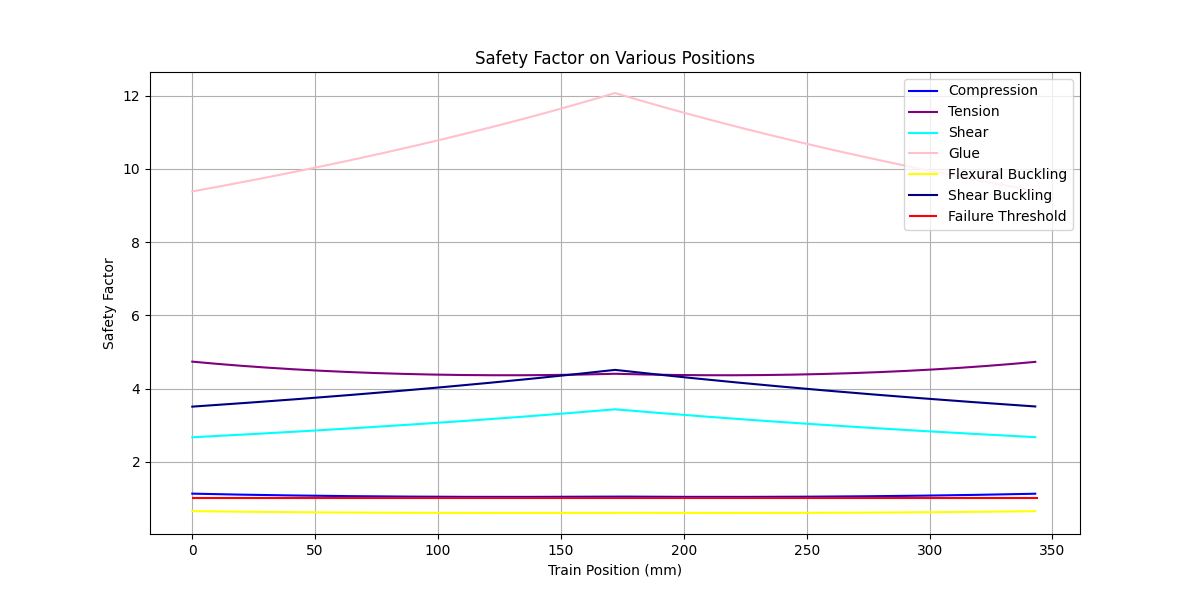
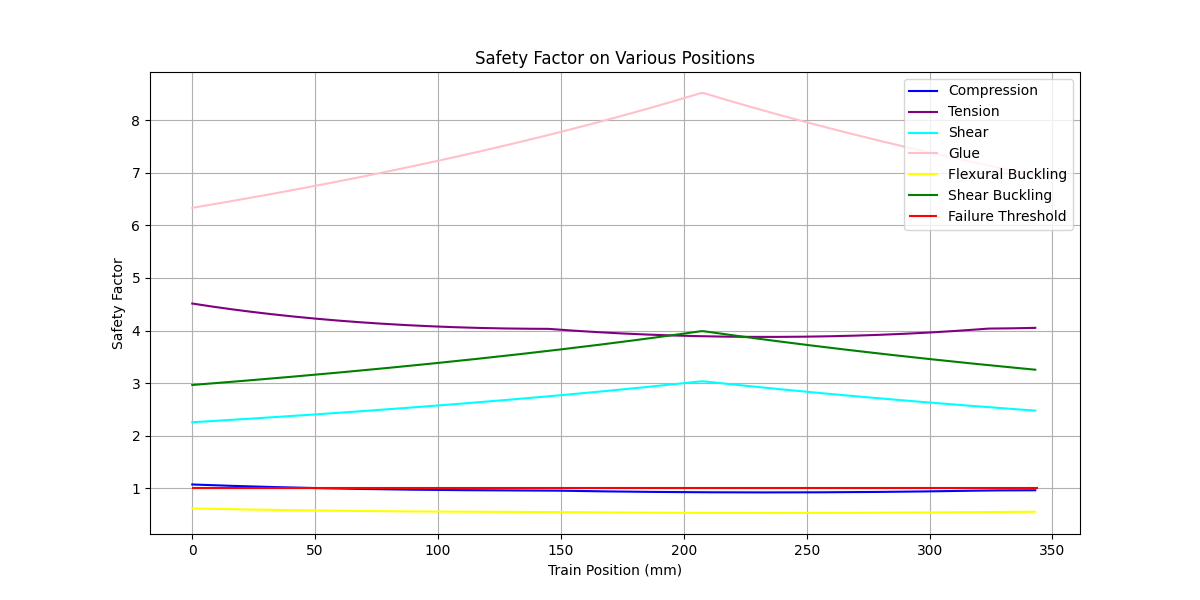
Routine updates.

diff --git a/README.md b/README.md
@@ -102,6 +102,23 @@ evaluator.plot_safety_factors(save_as="assets/images/safety_factors.png")
 
 ![safety factors](assets/images/safety_factors.png)
 
+Notice that the factor of safety of glue is way to high so all other curves are squeezed together. We can set
+the color of glue to `None` to remove it from the plot.
+
+```python
+from bridger import *
+
+cross_section = CIV102Beam()
+bridge = BeamBridge(452, cross_section)
+evaluator = Evaluator(bridge, Material())
+evaluator.plot_safety_factors(
+    colors=("blue", "purple", "cyan", None, "yellow", "green"), 
+    save_as="assets/images/safety_factors_no_glue.png"
+)
+```
+
+![safety factors no glue](assets/images/safety_factors_no_glue.png)
+
 #### Dead Zones
 
 ```python
@@ -113,22 +130,24 @@ evaluator = Evaluator(bridge, Material())
 safety_factors = evaluator.pass_the_train()
 ```
 
-`Evaluator.pass_the_train()` returns three lists of safety factors. Each list corresponds to the safety factors when the
+`Evaluator.pass_the_train()` returns six lists of safety factors. Each list corresponds to the safety factors when the
 train is at different positions. We can then calculate the dead zones, also known as the intervals where any type of
-safety factor is less than the threshold (1 by default, 0.95 in this case).
+safety factor is less than the threshold (1 by default, 0.6 in this case).
 
 ```python
 from bridger import *
 
 cross_section = CIV102Beam()
 bridge = BeamBridge(452, cross_section)
-evaluator = Evaluator(bridge, Material(), safety_factor_threshold=.95)
+evaluator = Evaluator(bridge, Material(), safety_factor_threshold=.6)
 safety_factors = evaluator.pass_the_train()
 dead_zones = evaluator.dead_zones(*safety_factors)
-print(dead_zones)  # [(157, 311)]
+print(dead_zones)  # [(20, 343)]
 ```
 
-The dead zones are tuples of two integers representing the start and end positions of each interval.
+The dead zones are tuples of two integers representing the start and end positions of each interval. `[(20, 343)]` means
+that when the first wheel of the train is at any position between 20 and 343 millimeters from the start, the bridge will
+fail.
 
 #### Maximum Load
 
@@ -147,7 +166,7 @@ print(f"The maximum load is {max_load} N, limited by {cause}")
 It returns a float number representing the maximum load and a string representing the reason.
 
 ```text
-The maximum load is 424.8080839891525 N, limited by compression
+The maximum load is 240.0889550207032 N, limited by flexural buckling
 ```
 
 ### Centroid of a Cross-section
@@ -183,10 +202,10 @@ A hollow square can be divided into four nonoverlapping rectangles.
 from bridger import *
 
 cross_section = ComplexCrossSection([
-    (RectangularCrossSection(12.7, 305), 0, 0),
-    (RectangularCrossSection(12.7, 305), 292.3, 0),
-    (RectangularCrossSection(279.6, 12.7), 0, 12.7),
-    (RectangularCrossSection(279.6, 12.7), 292.3, 12.7)
+    (RectangularCrossSection(305, 12.7), 0, 0), 
+    (RectangularCrossSection(12.7, 279.6), 0, 12.7),
+    (RectangularCrossSection(12.7, 279.6), 292.3, 12.7),
+    (RectangularCrossSection(305, 12.7), 0, 292.3)
 ])
 print(cross_section.moment_of_inertia() * 1e-6)  # 211.84488605453336
 ```
@@ -224,8 +243,8 @@ print(cross_section.moment_of_inertia() * 1e-6)  # 8424.6495395
 
 ## Optimization
 
-All design choices in this project are Convex Optimization Problems (COPs). By default, we use differential evolution
-to solve them. We also provide a more intuitive grid search approach. 
+All design choices in this project are Convex Optimization Problems (COPs). By default, we use advanced
+(multi-resolution) grid search to solve them. We also provide an option to use differential evolution from SciPy. 
 
 There is a much better way to implement the whole framework, that is to calculate everything in tensors using PyTorch.
 However, since it takes a lot of time to come up with a differentiable algorithm to find the cross-section properties,
@@ -234,39 +253,42 @@ instead of NumPy so that you can use gradient-based optimization to replace the 
 
 ### Cross-section Optimization
 
-The following example is optimizing the cross-section dimensions when the width of the matboard is 508, so that the
-surface lengths of the cross-section must add up to 508 and the top must be wider than the bottom. There are some
-other constraints applied to the range of the parameters. See details in the project handout.
+The following example is optimizing the cross-section dimensions when the width of the matboard is 813, so that the
+surface lengths of the cross-section must add up to 813 and the top must be wider than the bottom. There are some
+other constraints applied to the range of the parameters, such as the height must be a multiple of 20. See details in
+the project handout.
 
 ```python
 from bridger import *
 
+MATBOARD_WIDTH: float = 400
+
+
 def constraint(kwargs: dict[str, float]) -> dict[str, float] | None:
     top, bottom, height = kwargs["top"], kwargs["bottom"], kwargs["height"]
     kwargs["thickness"] = 1.27
-    used = top + bottom + 2 * (height - 2.54)
-    if used > matboard_width or top < bottom:
-        return None
-    kwargs["outreach"] = .5 * (matboard_width - used)
-    return kwargs if 2 * kwargs["outreach"] < bottom else None
+    kwargs["outreach"] = 5
+    used = bottom + 2 * (height - 2.54) + 10
+    return kwargs if used <= MATBOARD_WIDTH and top > bottom else None
 
-matboard_width = 508
+
+matboard_width = 813
 cross_section = CIV102Beam()
 bridge = BeamBridge(452, cross_section)
 evaluator = Evaluator(bridge, Material())
 optimizer = BeamOptimizer(evaluator)
-cross_section, load = optimizer.optimize_cross_section({
-    "top": (100, matboard_width, 1),
-    "bottom": (10, matboard_width, 1),
+params, load = optimizer.optimize_cross_section({
+    "top": (100, MATBOARD_WIDTH, .1),
+    "bottom": (10, MATBOARD_WIDTH, .1),
     "height": (20, 200, 20),
-}, independent_params=("top", "bottom", "height"), constraint=constraint)
-print(cross_section.kwargs(), load)
+}, constraint=constraint)
+print(params, load)
 ```
 
-It takes about 10 seconds to finish searching.
+It takes about 20 seconds to finish searching.
 
 ```text
-{'top': 100.0, 'bottom': 27.0, 'height': 180.0, 'thickness': 1.27, 'outreach': 13.039999999999992} 1223.092565759034
+{'top': 100.19999999999999, 'bottom': 60.69999999999999, 'height': 120.0, 'thickness': 1.27, 'outreach': 5} 719.6692696587126
 ```
 
 ## Team 602
